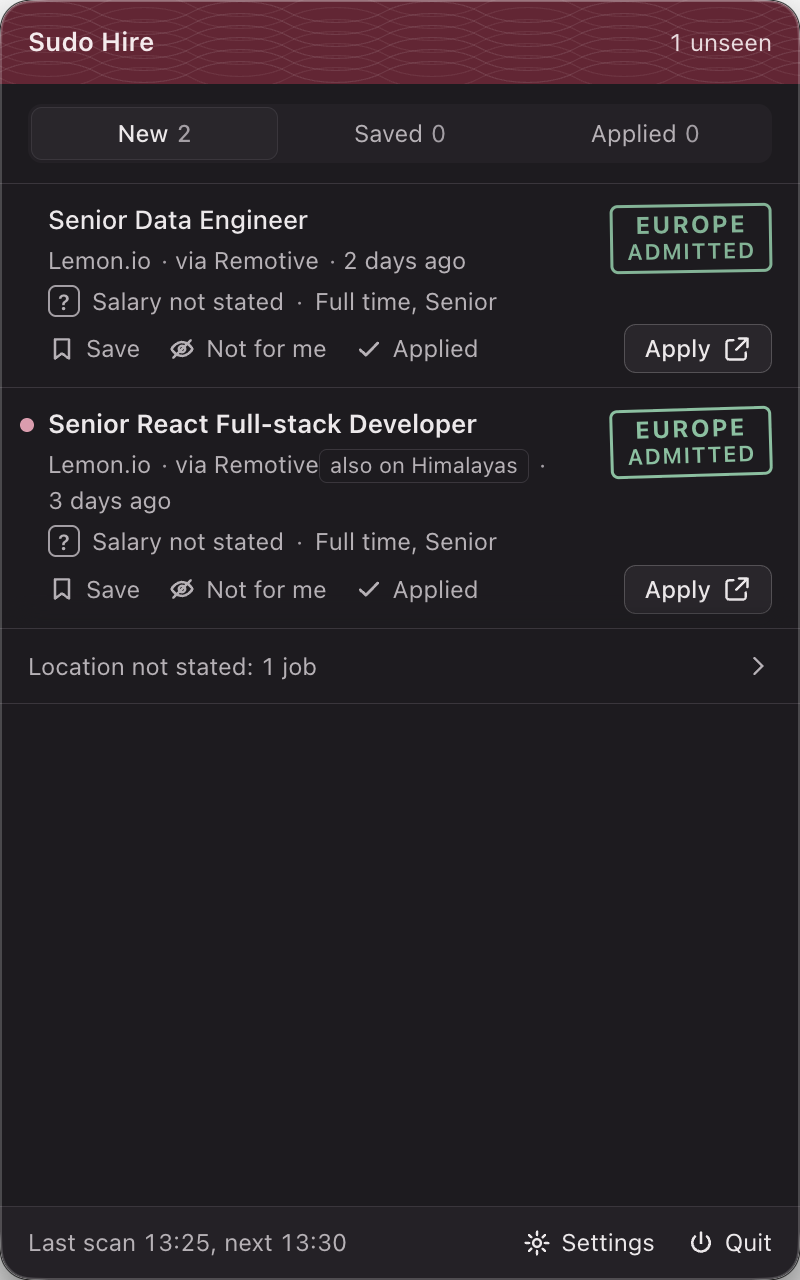
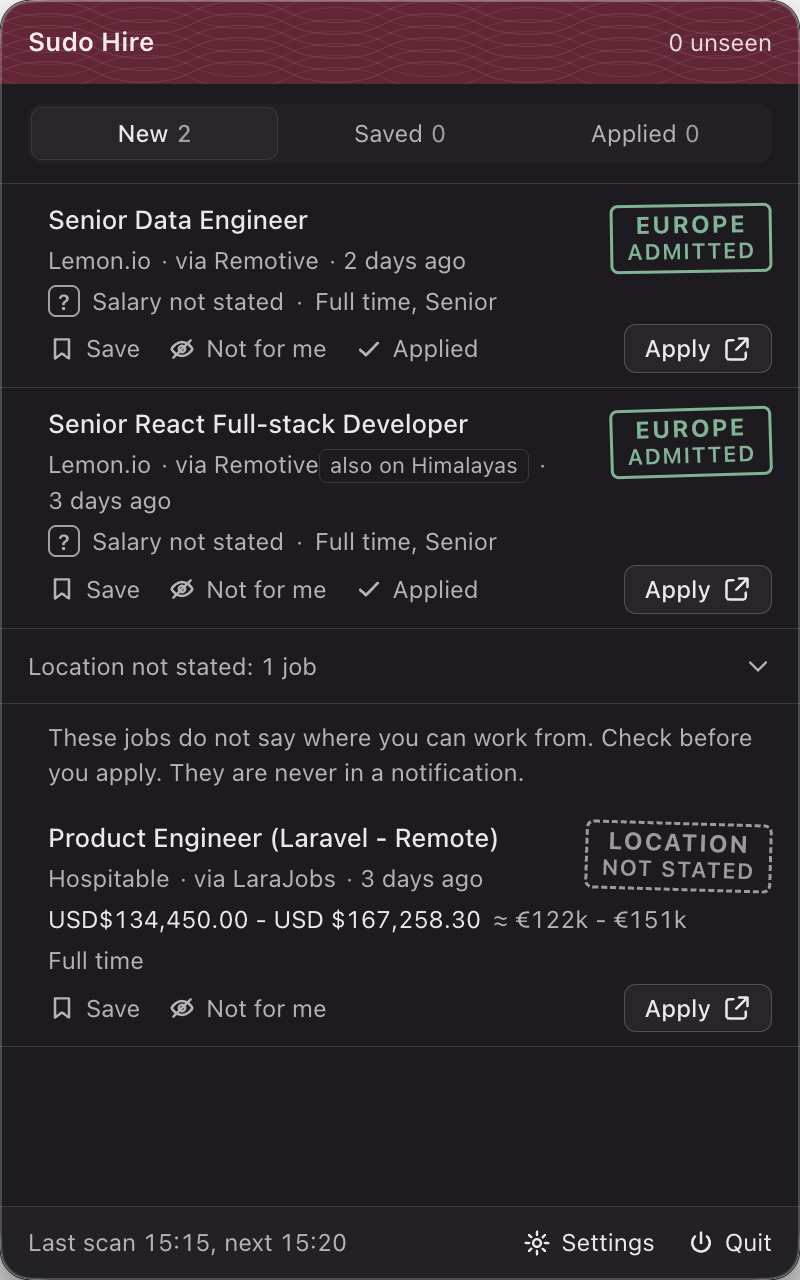
docs: check the site against v1.0.1
The pages are now checked against Sudo Hire v1.0.1. Home has new screenshots with the corrected pay line, and How it works says that both update notifications show.

diff --git a/src/data/nav.ts b/src/data/nav.ts
@@ -61,7 +61,7 @@ export const groups: NavGroup[] = [
     pages: [{
         href: '/roadmap/',
         label: 'Roadmap',
-        description: 'The changes planned for Sudo Hire after v1.0.0. Nothing here has a date.',
+        description: 'The changes planned for Sudo Hire after v1.0.1. Nothing here has a date.',
       }],
   },
 ];

diff --git a/src/data/app.ts b/src/data/app.ts
@@ -1,5 +1,5 @@
 // The version of sudo-hire that the pages were checked against: the release tag.
-export const checkedAgainst = 'v1.0.0';
+export const checkedAgainst = 'v1.0.1';
 
 // The roadmap page lists planned changes, so it is checked against
 // docs/ROADMAP.md on main of sudo-hire, not against a release.

diff --git a/DESIGN.md b/DESIGN.md
@@ -283,7 +283,7 @@ The one primary action of a view. Burgundy fill, `burgundy-ink` text, 17px weigh
 
 ### Screenshot frame
 
-A figure for a screenshot of the app, with a caption below in 14px `ink-3`. Home shows a screenshot of the menu bar list in v1.0.0, with real jobs. It has one screenshot for each theme, and the site shows the one of the theme in use. Each is the popover alone, with no window shadow, 300px wide at most, with a 0.5px `rule` border and radius 10px. A figure with no screenshot yet shows an empty frame. The frame is on `sunk`, 300px wide at most, in the 400 by 640 ratio of the popover. It has a 1px dashed `ink-3` border, radius 10px, and centered 14px `ink-3` text that says where the screenshot will come from.
+A figure for a screenshot of the app, with a caption below in 14px `ink-3`. Home shows a screenshot of the menu bar list in v1.0.1, with real jobs. It has one screenshot for each theme, and the site shows the one of the theme in use. Each is the popover alone, with no window shadow, 300px wide at most, with a 0.5px `rule` border and radius 10px. A figure with no screenshot yet shows an empty frame. The frame is on `sunk`, 300px wide at most, in the 400 by 640 ratio of the popover. It has a 1px dashed `ink-3` border, radius 10px, and centered 14px `ink-3` text that says where the screenshot will come from.
 
 ### On this page
 
